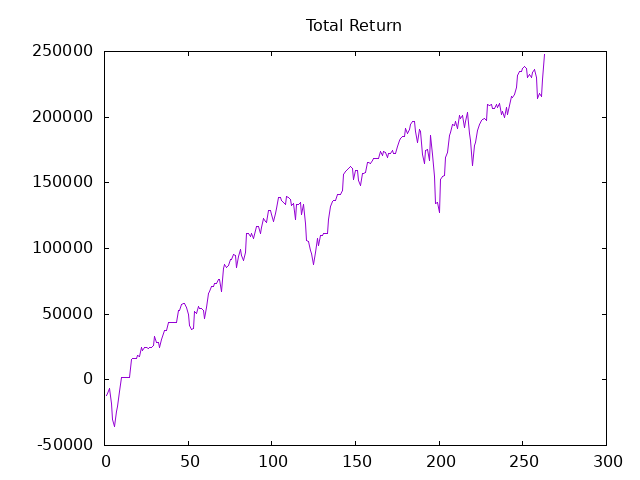
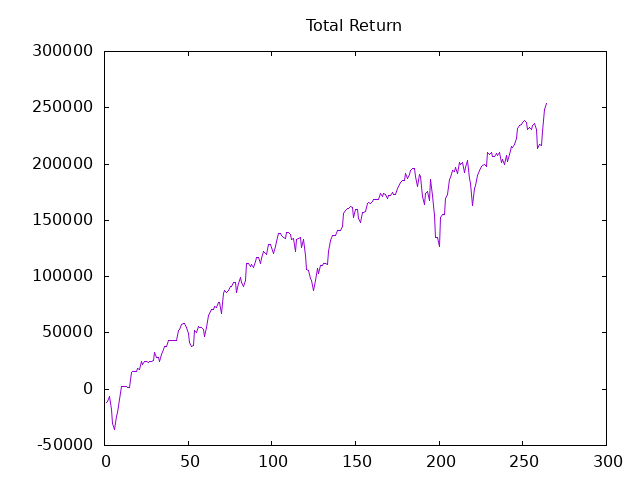
Syncing trades

diff --git a/README.md b/README.md
@@ -9,7 +9,7 @@ Position and returns data here are automatically updated daily just after the ma
 
 ## Current positions
 
-2024-11-06 21:57:00(UTC), MES Z24.CME_Eq, Price = 596100, Position = 24
+2024-11-07 21:57:00(UTC), MES Z24.CME_Eq, Price = 600750, Position = 26
 
 ## Past trades and returns
 
